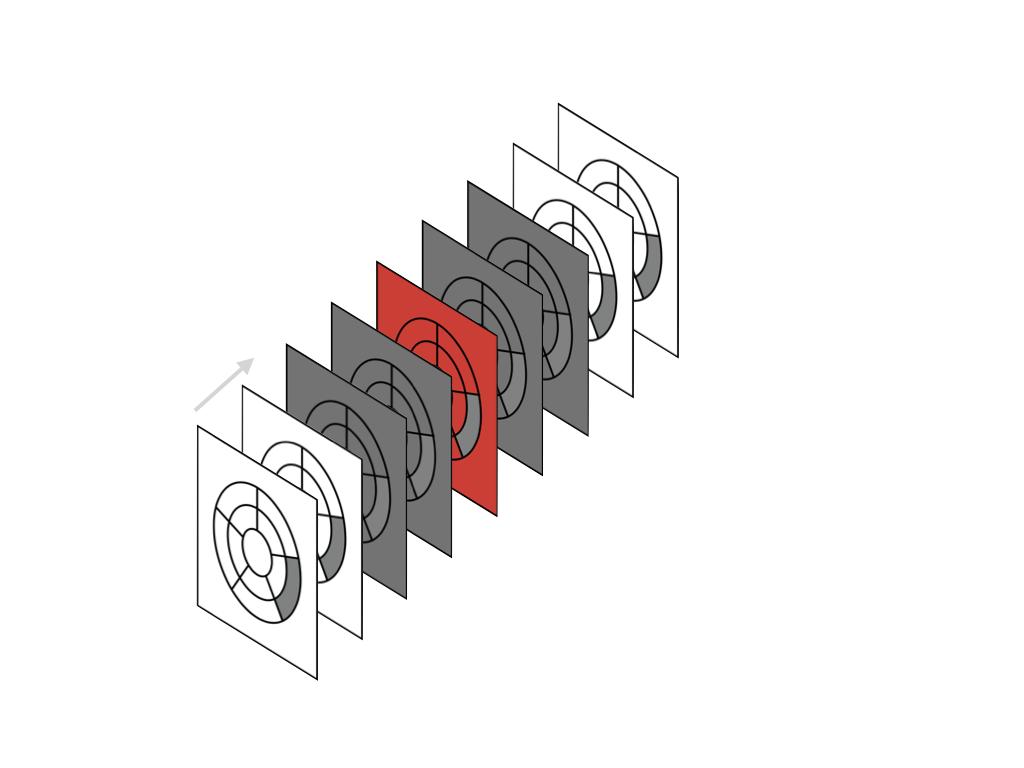
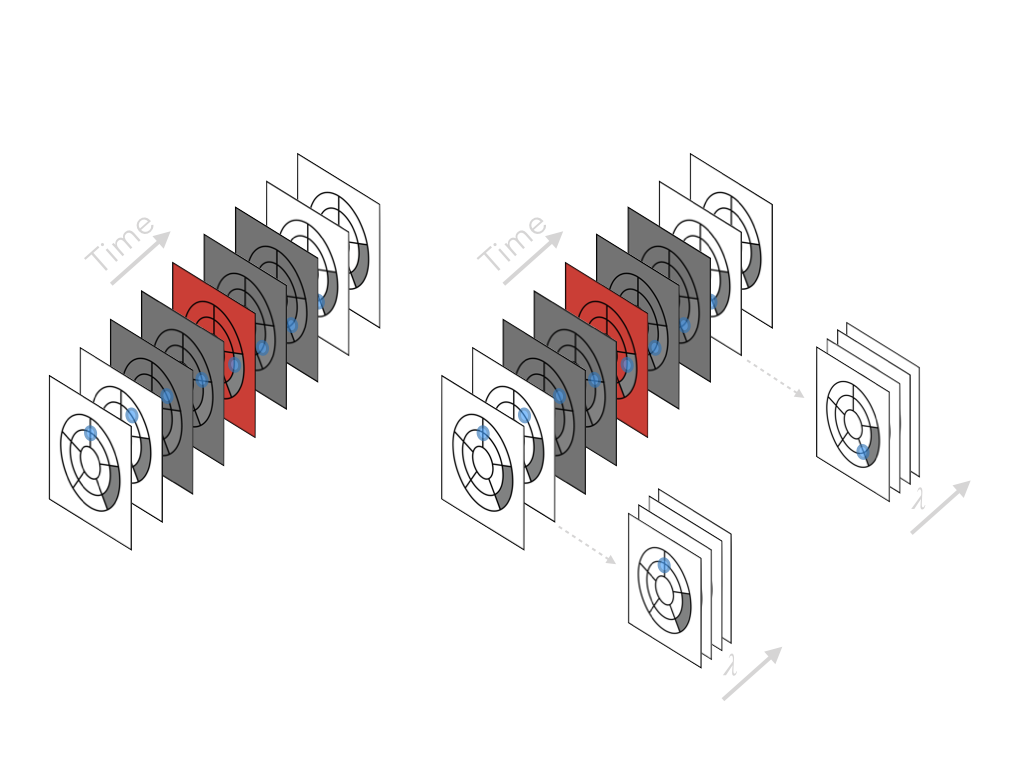
Adding information about the datasets and updating the figures

diff --git a/pages/subchallenges.md b/pages/subchallenges.md
@@ -1,9 +1,10 @@
 With the aim of creating a manageable competition, we will focus solely on detection of point-like sources (exoplanets). Other tasks, such as the characterization of companions or the detection of extended sources, will be the subject of future editions of the challenge. This first competition will consider two sub-challenges focused on the two most widely used observing techniques: pupil tracking (angular differential imaging, ADI) and multi-spectral imaging (multi-channel spectral differential imaging, SDI). 
 
-In pupil-stabilized or pupil-tracking observations the telescope pupil is stabilized on the detector and the field of view rotates in step with a given angle (the parallactic angle). This generates a fake movement of the companions in a circular trajectory around the center of the image, the place where the star is located. This process disentangles the exoplanet signal from the speckle field, an effect that is enhanced by the post-processing techniques. ADI datasets are composed of a 3d cube of images taken during an observing run and their corresponding parallactic angles and non-saturated point-spread function (PSF). 
+In pupil-stabilized or pupil-tracking observations the telescope pupil is stabilized on the detector and the field of view rotates in step with a given angle (the parallactic angle). This generates a fake movement of the companions in a circular trajectory around the center of the image, the place where the star is located. This process disentangles the exoplanet signal from the speckle field, an effect that is enhanced by the post-processing techniques. ADI datasets are composed of a 3d cube of images taken during an observing run (see Figure 1) and their corresponding parallactic angles and non-saturated point-spread function (PSF). 
 
-![ADI](https://raw.githubusercontent.com/carlgogo/exoimaging_challenge/master/assets/images/challenge_illustrations.001.png){:width="500px"}
+In the case of multi-spectral imaging, an integral field spectrograph is used to disperse the light, providing a data cube of several monochromatic images. The resolution and band coverage varies depending on the instrument used. Since the speckles are a function of wavelength, we can rescale the images to align them and create a fake movement of the companions in a radial direction (this diversity is also exploited by the post-processing algorithms). SDI is usually combined with ADI in modern instruments. In this case, the datasets are composed of a 4d cube of images (see Figure 1), a vector of parallactic angles, a vector of wavelenghts and a PSF. 
 
-In the case of multi-spectral imaging, an integral field spectrograph is used to disperse the light, providing a data cube of several monochromatic images. The resolution and band coverage varies depending on the instrument used. SDI is usually combined with ADI in modern instruments. In this case, the datasets are composed of a 4d cube of images, a vector of parallactic angles, a vector of wavelenghts and a PSF.
+| ![ADI_SDI](https://raw.githubusercontent.com/carlgogo/exoimaging_challenge/master/assets/images/challenge_illustrations.001.png){:width="700px"} |
+| --- |
+| Figure 1. Data formats used in this challenge. |
 
-![SDI](https://raw.githubusercontent.com/carlgogo/exoimaging_challenge/master/assets/images/challenge_illustrations.002.png){:width="500px"}

diff --git a/pages/datasets.md b/pages/datasets.md
@@ -2,9 +2,13 @@ The benchmark datasets will be compiled in a public repository, ensuring the lon
 
 **Task:** *What infrastructure could we use to store the benchmark datasets associated with this challenge? NASA Exoplanet Archive, DIVA database, Zenodo, Quilt, others?*
 
-In order to reduce the need of domain knowledge (e.g. the expertize on a specific instrument), the datasets will be calibrated/pre-processed using the standard pipelines of each instrument. When entering the database, they will be recorded in a public [table (Google spreadsheet)](pages/datasets_table)). A complete description of the calibration procedures performed, and a link to the software used, will be attached to each datacube.
+In order to reduce the need of domain knowledge (e.g. the expertize on a specific instrument), the datasets will be calibrated/pre-processed using the standard pipelines of each instrument. When entering the database, they will be recorded in a public [table (Google spreadsheet)](pages/datasets_table)). A complete description of the calibration procedures performed, and a link to the software used, will be attached to each datacube.
 
-![data](https://raw.githubusercontent.com/carlgogo/exoimaging_challenge/master/assets/images/challenge_illustrations.003.png){:width="500px"}
+| ![data](https://raw.githubusercontent.com/carlgogo/exoimaging_challenge/master/assets/images/challenge_illustrations.002.png){:width="700px"} |
+|---|
+| Figure 2. High-contrast imaging data processing pipeline. |
+
+ The datasets will be stored in [FITS](https://en.wikipedia.org/wiki/FITS) format. This is a format with long tradition in astronomy and can be easily loaded in any programming language or environment (Python, Matlab, IDL, R, C, etc).
  
 **Task:** *Which datasets will enter the benchmark database ([table/spreadsheet](pages/datasets_table))?* 
 
